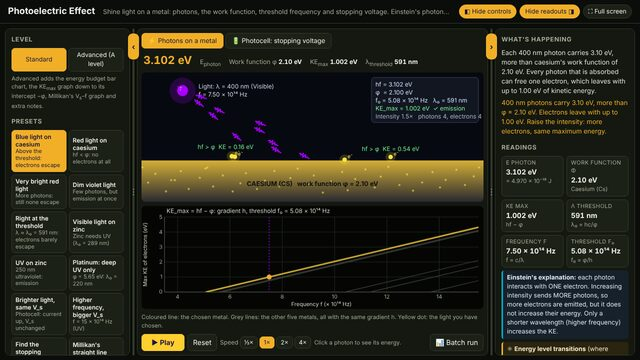
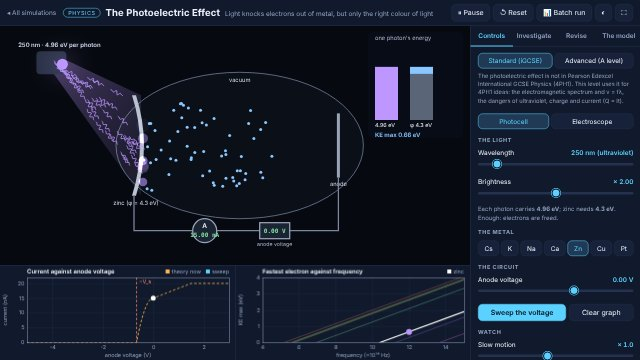
Four more enhanced simulations: Photoelectric Effect, Energy Systems, Bonding and Structure, Electric Circuits
Each rebuilt on the shared kit with guided investigations, batch runs, the
Standard/Advanced switch and a Revise tab. The earlier versions and their
worksheets are kept in each folder's original/.

Claude-Session: https://claude.ai/code/session_0148jtK1DnvxGSpxedFJW1rJ

diff --git a/index.html b/index.html
@@ -149,10 +149,10 @@ const SIMS = [
   ["physics", "waves", "waves.html", "Ripple Tank", "A true 2-D wave-equation solver: interference, Young's slits, diffraction, refraction, lenses, mirrors and sonic booms all emerge from one rule. Draw your own walls, glass and sources.", 0],
   ["physics", "optics_refraction", "optics-refraction.html", "Light: Refraction, Lenses and Fibres", "An optical bench where every ray obeys Snell's law: drag blocks, prisms, real lenses and a fibre; split white light, trap it by total internal reflection and make a rainbow in a raindrop. Has a batch run.", 0],
   ["physics", "fields_orbits", "fields-orbits.html", "Fields and Orbits", "Sculpt electric and gravitational fields, tilt them into hills and wells, and launch ions and satellites through them: Kepler's laws, escape speed, the Earth and Moon, two suns. Has a batch run.", 0, ["astrophysics"]],
-  ["physics", "circuits", "circuits.html", "Electric Circuits", "EMF and internal resistance, I–V characteristics, resistivity and AC circuits, with charges flowing.", 1],
+  ["physics", "circuits", "circuits.html", "Electric Circuits", "Series and parallel with flowing charge, LDRs and thermistors, I–V curves of resistors, lamps and diodes, and internal resistance. Has a batch run.", 0],
   ["physics", "capacitors", "capacitors.html", "Capacitors", "Charging and discharging, the time constant RC, energy stored, and capacitors in series and parallel.", 1],
   ["physics", "magnetism_induction", "magnetism-induction.html", "Magnetism and Induction", "Force on a current, electromagnetic induction, transformers and the DC motor.", 1],
-  ["physics", "photoelectric_effect", "photoelectric-effect.html", "Photoelectric Effect", "Photons free electrons from metals: threshold frequency, work function, stopping voltage and Planck's constant.", 1],
+  ["physics", "photoelectric_effect", "photoelectric-effect.html", "The Photoelectric Effect", "Photons knock electrons out of metal, but only the right colour: threshold frequency, stopping potential, Millikan's measurement of h, and the gold-leaf electroscope. Has a batch run.", 0],
   ["physics", "atomic_spectra", "atomic-spectra.html", "Atomic Spectra and Energy Levels", "Electrons jump between energy levels: emission and absorption lines, the Balmer series and the Rydberg formula.", 1],
   ["physics", "radioactive_decay", "radioactive-decay.html", "Radioactive Decay", "Ten thousand nuclei decaying at random, half-lives of real isotopes, and a bench with a Geiger counter, paper, aluminium and lead. Has a batch run.", 0],
   ["physics", "nuclear_fission", "nuclear-fission.html", "Nuclear Fission and Chain Reactions", "Neutrons split uranium: k, critical mass, control rods and where the energy comes from.", 1],
@@ -169,7 +169,7 @@ const SIMS = [
   ["chemistry", "collision_theory", "collision-theory.html", "Collision Theory and Rates", "Molecules that react only if they collide hard enough: temperature, concentration, pressure, surface area and a catalyst, with a runaway reaction and the Arrhenius plot. Has a batch run.", 0],
   ["chemistry", "dynamic_equilibrium", "dynamic-equilibrium.html", "Dynamic Equilibrium", "A + B ⇌ AB with real collisions: every bond made and broken flashes, and the rates chart shows them come into balance. Le Chatelier by adding, squeezing and heating.", 0],
   ["chemistry", "atomic_structure", "atomic-structure.html", "Atomic Structure and Isotopes", "Protons, neutrons and electrons, shells, ions and isotopes; weigh a random sample of atoms to find relative atomic mass.", 1],
-  ["chemistry", "bonding", "bonding.html", "Ionic, Covalent and Metallic Bonding", "How each bond forms, then heat, dissolve, push and test the structure for conduction: why salt, diamond, water and copper behave so differently.", 1],
+  ["chemistry", "bonding", "bonding.html", "Bonding and Structure", "Watch electrons transfer and share, then heat, test and hammer the structure: why salt shatters, copper bends, water boils at 100 °C and graphite conducts. Has a batch run.", 0],
   ["chemistry", "organic_chemistry", "organic-chemistry.html", "Crude Oil, Cracking and Polymers", "Fractional distillation and the fractions, combustion, cracking with the bromine water test, and addition polymers.", 1],
   ["chemistry", "periodic_groups", "periodic-groups.html", "Groups 1 and 7", "Alkali metals in water and halogen displacement, with the trends down each group explained by atomic size and shielding.", 1],
   ["chemistry", "reactivity_metals", "reactivity-metals.html", "Reactivity and Extracting Metals", "The reactivity series: metals with water and acid, displacement and temperature rise, the blast furnace and aluminium electrolysis.", 1],
@@ -236,7 +236,7 @@ const SIMS = [
   ["economics", "externalities", "externalities.html", "Market Failure and Externalities", "Pollution, merit goods and public goods: welfare loss, Pigouvian taxes, subsidies, regulation, cap and trade, free riders (lemons and Coase at A level).", 1],
   ["economics", "trade_exchange_rates", "trade-exchange-rates.html", "Trade and Exchange Rates", "Comparative advantage and gains from trade, tariffs and quotas, and a market for the pound; real GBP history (J-curve, Marshall-Lerner and customs unions at A level).", 1],
   ["economics", "inequality", "inequality.html", "Inequality and Redistribution", "A population earns, saves and inherits: Lorenz curves and the Gini, poverty lines, and UK taxes and benefits (Kuznets and Laffer curves at A level).", 1, ["statistics"]],
-  ["physical_education", "energy_systems", "energy-systems.html", "Energy Systems and Recovery", "ATP-PC, glycolytic and aerobic systems across races, games and interval sessions; the energy continuum, OBLA, oxygen deficit and EPOC.", 1, ["biology"]],
+  ["physical_education", "energy_systems", "energy-systems.html", "Energy Systems", "Four fuel tanks empty and refill as an athlete sprints, races and plays: the energy continuum, oxygen deficit, OBLA, EPOC and active recovery. Has a batch run.", 0, ["biology"]],
   ["physical_education", "training_adaptation", "training-adaptation.html", "Training and Adaptation", "Heart and lungs during a session (Q = SV × HR, VE = TV × f), then weeks of training: principles, methods, adaptations, tapering and injury risk.", 1, ["biology"]],
   ["physical_education", "sport_biomechanics", "sport-biomechanics.html", "Sport Biomechanics", "Levers, planes and axes (stability, impulse, projectiles with spin, drag and lift, and L = Iω at A level) on a body-segment athlete. At A level it also covers Eduqas Physics Option C, with a bounce practical.", 1, ["physics"]],
   ["physical_education", "fitness_testing", "fitness-testing.html", "Fitness Testing", "A squad does the standard fitness tests: protocols, ratings, reliability and validity, and what a retest can really show.", 1],
@@ -277,9 +277,13 @@ const ENHANCED = {
   "predator_prey": "Shoot 40% of the foxes each year. Is that good news for the farmer?",
   "electrolysis": "Electrolyse salt water. Where has the sodium gone?",
   "running_the_economy": "Press 'Energy prices jump'. Should the Bank raise rates or not?",
-  "radioactive_decay": "Put paper, aluminium and lead in front of each source. What stops what?"
+  "radioactive_decay": "Put paper, aluminium and lead in front of each source. What stops what?",
+  "photoelectric_effect": "Shine the brightest red light you can on zinc. Then a dim ultraviolet one.",
+  "energy_systems": "Run a 400 m flat out and watch the PC tank empty in ten seconds.",
+  "bonding": "Hit salt with the hammer, then copper. Why does one shatter and the other bend?",
+  "circuits": "Sweep the voltage across a diode, then a lamp. Which one obeys Ohm's law?"
 };
-const NEW = ["turing_patterns", "predator_prey", "electrolysis", "running_the_economy", "radioactive_decay"];
+const NEW = ["photoelectric_effect", "energy_systems", "bonding", "circuits"];
 const COLOURS = { physics: "#5ab0ff", chemistry: "#ff9a5a", biology: "#6fd08c", engineering: "#c9a0ff", climate: "#4fd1c5", astrophysics: "#8ea2ff", statistics: "#ffd166", economics: "#ff7fa3", physical_education: "#9be15d" };
 
 const el = id => document.getElementById(id);

diff --git a/chemistry/bonding/bonding.html b/chemistry/bonding/bonding.html
@@ -526,7 +526,9 @@ const ui = K.app({
 <ul><li>The structures are flat slices of three-dimensional lattices, with a few dozen particles; real crystals contain about 10²³.</li>
 <li>Particles and electrons are not to scale. Electron shells are drawn as circles, which is a model, not a picture.</li>
 <li>Molecules in the simple molecular structure are drawn as small clusters and do not rotate or react.</li>
-<li>Dissolving, polarisation of ions and dative bonds are not shown (the earlier version has dative bonds and electronegativity in detail).</li></ul>`
+<li>Dissolving, polarisation of ions and dative bonds are not shown (the earlier version has dative bonds and electronegativity in detail).</li></ul>
+<h3>The earlier version</h3>
+<p>The previous version of this simulation, with its worksheets, is still here: <a href="original/bonding.html" style="color:var(--accent)">open the earlier version</a>.</p>`
 });
 
 // ---------------- Controls ----------------

diff --git a/tools/kit/src/bonding.js b/tools/kit/src/bonding.js
@@ -112,7 +112,9 @@ const ui = K.app({
 <ul><li>The structures are flat slices of three-dimensional lattices, with a few dozen particles; real crystals contain about 10²³.</li>
 <li>Particles and electrons are not to scale. Electron shells are drawn as circles, which is a model, not a picture.</li>
 <li>Molecules in the simple molecular structure are drawn as small clusters and do not rotate or react.</li>
-<li>Dissolving, polarisation of ions and dative bonds are not shown (the earlier version has dative bonds and electronegativity in detail).</li></ul>`
+<li>Dissolving, polarisation of ions and dative bonds are not shown (the earlier version has dative bonds and electronegativity in detail).</li></ul>
+<h3>The earlier version</h3>
+<p>The previous version of this simulation, with its worksheets, is still here: <a href="original/bonding.html" style="color:var(--accent)">open the earlier version</a>.</p>`
 });
 
 // ---------------- Controls ----------------

diff --git a/physical_education/energy_systems/energy-systems.html b/physical_education/energy_systems/energy-systems.html
@@ -575,7 +575,9 @@ const ui = K.app({
 <ul><li>Several rates are illustrative, chosen so that race times, peak lactate after a 400 m and the energy shares (Gastin, 2001) are realistic. They are not measured from any one athlete.</li>
 <li>No muscle fibre types, heat, dehydration, tactics or finishing kick; the heart and lungs are not modelled separately; no feeding during a marathon.</li>
 <li>Muscle and blood lactate are treated as the same; in reality blood lactate peaks a few minutes after the effort.</li>
-<li>The figure on the track is a picture of the numbers, not part of the model.</li></ul>`
+<li>The figure on the track is a picture of the numbers, not part of the model.</li></ul>
+<h3>The earlier version</h3>
+<p>The previous version of this simulation, with its worksheets, is still here: <a href="original/energy-systems.html" style="color:var(--accent)">open the earlier version</a>.</p>`
 });
 
 // ---------------- Controls ----------------

diff --git a/tools/kit/src/energy_systems.js b/tools/kit/src/energy_systems.js
@@ -161,7 +161,9 @@ const ui = K.app({
 <ul><li>Several rates are illustrative, chosen so that race times, peak lactate after a 400 m and the energy shares (Gastin, 2001) are realistic. They are not measured from any one athlete.</li>
 <li>No muscle fibre types, heat, dehydration, tactics or finishing kick; the heart and lungs are not modelled separately; no feeding during a marathon.</li>
 <li>Muscle and blood lactate are treated as the same; in reality blood lactate peaks a few minutes after the effort.</li>
-<li>The figure on the track is a picture of the numbers, not part of the model.</li></ul>`
+<li>The figure on the track is a picture of the numbers, not part of the model.</li></ul>
+<h3>The earlier version</h3>
+<p>The previous version of this simulation, with its worksheets, is still here: <a href="original/energy-systems.html" style="color:var(--accent)">open the earlier version</a>.</p>`
 });
 
 // ---------------- Controls ----------------

diff --git a/physics/photoelectric_effect/photoelectric-effect.html b/physics/photoelectric_effect/photoelectric-effect.html
@@ -504,7 +504,9 @@ const ui = K.app({
 <li>Real metals' work functions depend on the surface, which oxidises in air: real experiments use a vacuum and freshly cleaned metal.</li>
 <li>The share of photons that free electrons (the quantum efficiency) is set to 25% for all metals and wavelengths; real values are far smaller and vary.</li>
 <li>Contact potentials between the two electrodes, which shift measured stopping potentials in real photocells, are ignored.</li>
-<li>Hydrogen energy levels and spectra are in the Atomic Spectra simulation.</li></ul>`
+<li>Hydrogen energy levels and spectra are in the Atomic Spectra simulation.</li></ul>
+<h3>The earlier version</h3>
+<p>The previous version of this simulation, with its worksheets, is still here: <a href="original/photoelectric-effect.html" style="color:var(--accent)">open the earlier version</a>.</p>`
 });
 
 // ---------------- Controls ----------------

diff --git a/tools/kit/src/photoelectric_effect.js b/tools/kit/src/photoelectric_effect.js
@@ -90,7 +90,9 @@ const ui = K.app({
 <li>Real metals' work functions depend on the surface, which oxidises in air: real experiments use a vacuum and freshly cleaned metal.</li>
 <li>The share of photons that free electrons (the quantum efficiency) is set to 25% for all metals and wavelengths; real values are far smaller and vary.</li>
 <li>Contact potentials between the two electrodes, which shift measured stopping potentials in real photocells, are ignored.</li>
-<li>Hydrogen energy levels and spectra are in the Atomic Spectra simulation.</li></ul>`
+<li>Hydrogen energy levels and spectra are in the Atomic Spectra simulation.</li></ul>
+<h3>The earlier version</h3>
+<p>The previous version of this simulation, with its worksheets, is still here: <a href="original/photoelectric-effect.html" style="color:var(--accent)">open the earlier version</a>.</p>`
 });
 
 // ---------------- Controls ----------------

diff --git a/physics/circuits/circuits.html b/physics/circuits/circuits.html
@@ -515,7 +515,9 @@ const ui = K.app({
 <ul><li>Wires have no resistance and meters do not disturb the circuit.</li>
 <li>The lamp heats up instantly; real filaments take a fraction of a second, which is why bulbs often fail when switched on.</li>
 <li>Real electrons drift from − to + at less than a millimetre per second; the dots are a picture of the current, not of electrons.</li>
-<li>No a.c. here: the earlier version has an a.c. tab (beyond the spec) and a resistivity bench.</li></ul>`
+<li>No a.c. here: the earlier version has an a.c. tab (beyond the spec) and a resistivity bench.</li></ul>
+<h3>The earlier version</h3>
+<p>The previous version of this simulation, with its worksheets, is still here: <a href="original/circuits.html" style="color:var(--accent)">open the earlier version</a>.</p>`
 });
 
 // ---------------- Controls ----------------

diff --git a/tools/kit/src/circuits.js b/tools/kit/src/circuits.js
@@ -101,7 +101,9 @@ const ui = K.app({
 <ul><li>Wires have no resistance and meters do not disturb the circuit.</li>
 <li>The lamp heats up instantly; real filaments take a fraction of a second, which is why bulbs often fail when switched on.</li>
 <li>Real electrons drift from − to + at less than a millimetre per second; the dots are a picture of the current, not of electrons.</li>
-<li>No a.c. here: the earlier version has an a.c. tab (beyond the spec) and a resistivity bench.</li></ul>`
+<li>No a.c. here: the earlier version has an a.c. tab (beyond the spec) and a resistivity bench.</li></ul>
+<h3>The earlier version</h3>
+<p>The previous version of this simulation, with its worksheets, is still here: <a href="original/circuits.html" style="color:var(--accent)">open the earlier version</a>.</p>`
 });
 
 // ---------------- Controls ----------------

diff --git a/README.md b/README.md
@@ -14,8 +14,8 @@ project's own folder.
 
 ## ★ Enhanced simulations
 
-Thirty-one simulations are marked ★ Enhanced on the front page (gold edge and a
-star tag): twenty-four rebuilt showpieces, which replaced the earlier versions in
+Thirty-five simulations are marked ★ Enhanced on the front page (gold edge and a
+star tag): twenty-eight rebuilt showpieces, which replaced the earlier versions in
 their folders, and seven newer ones (Quantum Wave Lab, Special Relativity, Wind
 Tunnel, Lightning, Sound Made Visible, Murmuration, Turing Patterns). They share a small
 toolkit in [`tools/kit/`](tools/kit/) and have guided investigations in place
@@ -24,8 +24,8 @@ of worksheets. The earlier Three-Body Chaos Lab is kept in
 Lensing simulation in `astrophysics/gravitational_lensing/original/`. The earlier
 Gas in a Box, Collision Theory, Galaxy Collisions, Epidemics, Fields and
 Orbits, Traffic Flow, Optics, Heart and Circulation, Tropical Storms, Foxes and
-Rabbits, Electrolysis, Running the Economy and Radioactive Decay are likewise
-kept in each folder's `original/`, with their worksheets,
+Rabbits, Electrolysis, Running the Economy, Radioactive Decay, Photoelectric
+Effect, Energy Systems, Bonding and Circuits are likewise kept in each folder's `original/`, with their worksheets,
 and are linked from "The model" tab of the new versions.
 
 ## Batch run
@@ -39,7 +39,7 @@ simulation has ready-made batch experiments that pose a question, such as
 
 ## Worksheets
 
-Every simulation with a batch run, apart from the thirty-one ★ Enhanced ones,
+Every simulation with a batch run, apart from the thirty-five ★ Enhanced ones,
 has a `worksheets.html` beside it: one
 printable A4 page per batch experiment (set-up, prediction, results table to
 fill in, questions), then teacher notes with the explanation and the numbers
@@ -62,10 +62,10 @@ changing a simulation's batch experiments.
 | [`physics/waves/`](physics/waves/) | Ripple Tank ★: a 2-D wave-equation solver. Interference, slits, refraction, lenses, mirrors and Doppler; draw your own walls and glass | Open `waves.html` |
 | [`physics/optics_refraction/`](physics/optics_refraction/) | Light: Refraction, Lenses and Fibres ★: a ray-traced optical bench with blocks, prisms, real lenses, a fibre and a raindrop | Open `optics-refraction.html` |
 | [`physics/fields_orbits/`](physics/fields_orbits/) | Fields and Orbits ★: electric and gravitational fields you can sculpt and tilt, launched ions and satellites, Kepler's laws, escape speed (also listed under Astrophysics) | Open `fields-orbits.html` |
-| [`physics/circuits/`](physics/circuits/) | Circuits: EMF and internal resistance, I–V characteristics, resistivity, AC | Open `circuits.html` |
+| [`physics/circuits/`](physics/circuits/) | Electric Circuits ★: series and parallel with flowing charge, sensors, I–V curves, internal resistance | Open `circuits.html` |
 | [`physics/capacitors/`](physics/capacitors/) | Capacitors: charge and discharge, time constant, energy | Open `capacitors.html` |
 | [`physics/magnetism_induction/`](physics/magnetism_induction/) | Magnetism and induction: motor effect, Faraday's law, transformers, DC motor | Open `magnetism-induction.html` |
-| [`physics/photoelectric_effect/`](physics/photoelectric_effect/) | Photoelectric effect: threshold frequency, work function, stopping voltage, Planck's constant | Open `photoelectric-effect.html` |
+| [`physics/photoelectric_effect/`](physics/photoelectric_effect/) | The Photoelectric Effect ★: photons, work function, stopping potential, Millikan's h, the gold-leaf electroscope | Open `photoelectric-effect.html` |
 | [`physics/atomic_spectra/`](physics/atomic_spectra/) | Atomic spectra: energy levels, emission and absorption lines, Rydberg formula | Open `atomic-spectra.html` |
 | [`physics/radioactive_decay/`](physics/radioactive_decay/) | Radioactive Decay ★: random decay and half-life of real isotopes; α, β and γ through paper, aluminium and lead | Open `radioactive-decay.html` |
 | [`physics/nuclear_fission/`](physics/nuclear_fission/) | Nuclear fission: chain reactions, k, critical mass, control rods | Open `nuclear-fission.html` |
@@ -87,7 +87,7 @@ changing a simulation's batch experiments.
 | [`chemistry/collision_theory/`](chemistry/collision_theory/) | Collision Theory and Rates ★: reacting molecules, activation energy, catalysts, surface area, runaway reactions, the Arrhenius plot | Open `collision-theory.html` |
 | [`chemistry/dynamic_equilibrium/`](chemistry/dynamic_equilibrium/) | Dynamic Equilibrium ★: A + B ⇌ AB with real particle collisions; Le Chatelier, K and Q, energy profile | Open `dynamic-equilibrium.html` |
 | [`chemistry/atomic_structure/`](chemistry/atomic_structure/) | Atomic structure: protons, neutrons, electrons, shells, ions, isotopes and relative atomic mass | Open `atomic-structure.html` |
-| [`chemistry/bonding/`](chemistry/bonding/) | Ionic, covalent and metallic bonding, with structure and properties (melting, conduction, brittleness) | Open `bonding.html` |
+| [`chemistry/bonding/`](chemistry/bonding/) | Bonding and Structure ★: ionic, covalent and metallic bonds forming; heat, conduct and hammer the structure | Open `bonding.html` |
 | [`chemistry/organic_chemistry/`](chemistry/organic_chemistry/) | Crude oil, cracking and polymers: fractional distillation, combustion, alkenes and addition polymerisation | Open `organic-chemistry.html` |
 | [`chemistry/periodic_groups/`](chemistry/periodic_groups/) | Groups 1 and 7: alkali metals with water, halogens and displacement, trends down a group | Open `periodic-groups.html` |
 | [`chemistry/reactivity_metals/`](chemistry/reactivity_metals/) | Reactivity series, metal displacement, and extracting metals (blast furnace, electrolysis) | Open `reactivity-metals.html` |
@@ -202,7 +202,7 @@ Standard level follows OCR GCSE (9–1) Physical Education (J587); Advanced foll
 
 | Folder | What it is | How to run |
 |---|---|---|
-| [`physical_education/energy_systems/`](physical_education/energy_systems/) | Energy systems and recovery: ATP-PC, glycolytic and aerobic systems, energy continuum, EPOC (also listed under Biology) | Open `energy-systems.html` |
+| [`physical_education/energy_systems/`](physical_education/energy_systems/) | Energy Systems ★: ATP, PC, glycogen and oxygen tanks in races, intervals and games; deficit, OBLA, EPOC, recovery | Open `energy-systems.html` |
 | [`physical_education/training_adaptation/`](physical_education/training_adaptation/) | Training and adaptation: Q = SV × HR, principles and methods of training, adaptations, tapering (also listed under Biology) | Open `training-adaptation.html` |
 | [`physical_education/sport_biomechanics/`](physical_education/sport_biomechanics/) | Sport biomechanics: levers, planes and axes, stability, impulse, projectiles, drag and lift, angular momentum, and Eduqas Physics Option C at A level (also listed under Physics) | Open `sport-biomechanics.html` |
 | [`physical_education/fitness_testing/`](physical_education/fitness_testing/) | Fitness testing: 12 fitness tests on a simulated squad, ratings, reliability, validity, typical error | Open `fitness-testing.html` |

diff --git a/physics/photoelectric_effect/README.md b/physics/photoelectric_effect/README.md
@@ -1,0 +1,47 @@
+# The Photoelectric Effect
+
+Photons drawn as wave packets strike a metal; each one frees an electron if
+its energy hf exceeds the work function. A vacuum photocell measures the
+current and stopping potential; a gold-leaf electroscope repeats Hertz and
+Hallwachs's discovery.
+
+## How to run
+
+Open `photoelectric-effect.html` in Chrome or Edge. Nothing to install; works offline.
+
+## What it shows
+
+- Wavelength 200–700 nm and brightness; seven metals (Cs, K, Na, Ca, Zn, Cu,
+  Pt) with their work functions; an energy bar comparing hf with φ.
+- Photocell with anode voltage and a voltage sweep: the I–V curve and
+  stopping potential. Electroscope that discharges in ultraviolet but not
+  in red light, or when positively charged.
+- KE_max against frequency for every metal (Advanced: extended to −φ).
+- Eight guided investigations.
+
+## Levels and revision
+
+A **Standard / Advanced** switch at the top of the Controls tab hides or shows
+the A level investigations. The **Revise** tab has key ideas tagged with their
+spec and exam-practice questions with mark schemes, some using the numbers on
+screen.
+
+## Batch run
+
+Millikan's V_s–f graph (gradient h/e), current against brightness,
+stopping potential against brightness, threshold wavelengths, the time to
+the first electron in dim light, and the spread of electron energies.
+
+## The earlier version
+
+The previous version is kept, unchanged, in `original/` with its worksheets,
+and is linked from "The model" tab of the new one.
+
+## Limits
+
+The quantum efficiency is a fixed 25%; contact potentials are ignored. Hydrogen spectra are in the Atomic Spectra simulation. See "The model" tab in the simulation for the full list.
+
+## Source
+
+Built from `tools/kit/src/photoelectric_effect.js` with the shared kit: edit that file and run
+`node build.js` inside `tools/kit/`. There is no `worksheets.html` for this version.

diff --git a/chemistry/bonding/README.md b/chemistry/bonding/README.md
@@ -1,0 +1,47 @@
+# Bonding and Structure
+
+How ionic, covalent and metallic bonds form (shells, electron transfer,
+dot-and-cross diagrams), and the structure each makes, between two
+electrodes: heat it through its real melting and boiling points, connect a
+battery, or hit it with a hammer.
+
+## How to run
+
+Open `bonding.html` in Chrome or Edge. Nothing to install; works offline.
+
+## What it shows
+
+- Fifteen substances: NaCl, MgO; H₂, Cl₂, H₂O, NH₃, CH₄, CO₂, N₂; diamond,
+  graphite, SiO₂; Na, Al, Cu.
+- Electron transfer animated for ionic compounds; dot-and-cross diagrams with
+  bond angles for molecules; lattices for giant structures.
+- Melting, boiling and subliming; conduction (ions in the melt, electrons in
+  metals and graphite); salt shattering, metals bending, diamond unmoved.
+- Melting points compared, and the heating curve.
+- Nine guided investigations.
+
+## Levels and revision
+
+A **Standard / Advanced** switch at the top of the Controls tab hides or shows
+the A level investigations. The **Revise** tab has key ideas tagged with their
+spec and exam-practice questions with mark schemes, some using the numbers on
+screen.
+
+## Batch run
+
+Melting temperature against bond strength in a model lattice, melting point
+against ionic charge, and boiling points of alkanes and noble gases.
+
+## The earlier version
+
+The previous version is kept, unchanged, in `original/` with its worksheets,
+and is linked from "The model" tab of the new one.
+
+## Limits
+
+Flat slices of 3-D lattices with few particles; no dissolving. The electronegativity and dative-bond boxes of the earlier version are not in this one. See "The model" tab in the simulation for the full list.
+
+## Source
+
+Built from `tools/kit/src/bonding.js` with the shared kit: edit that file and run
+`node build.js` inside `tools/kit/`. There is no `worksheets.html` for this version.
